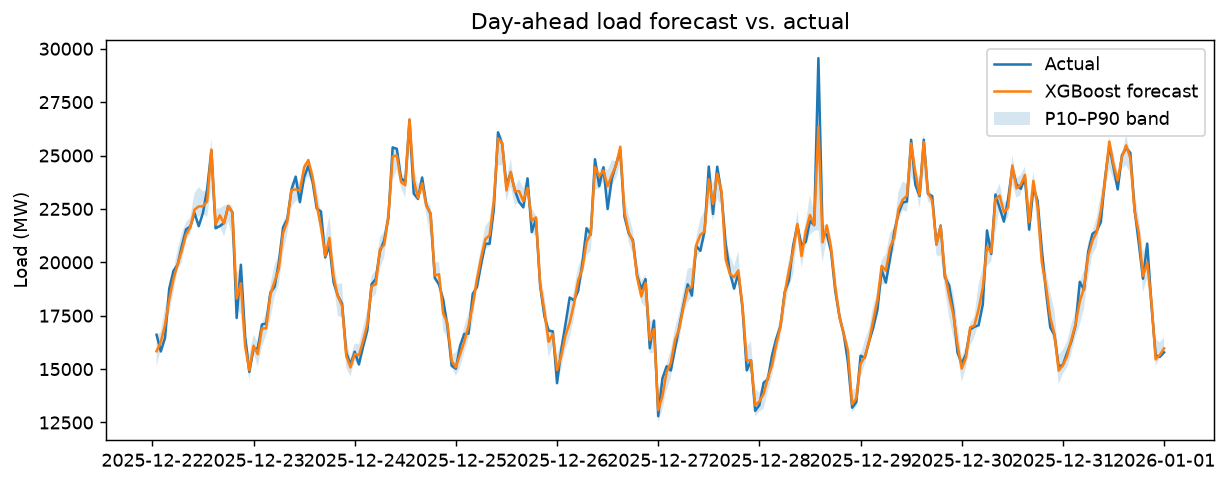
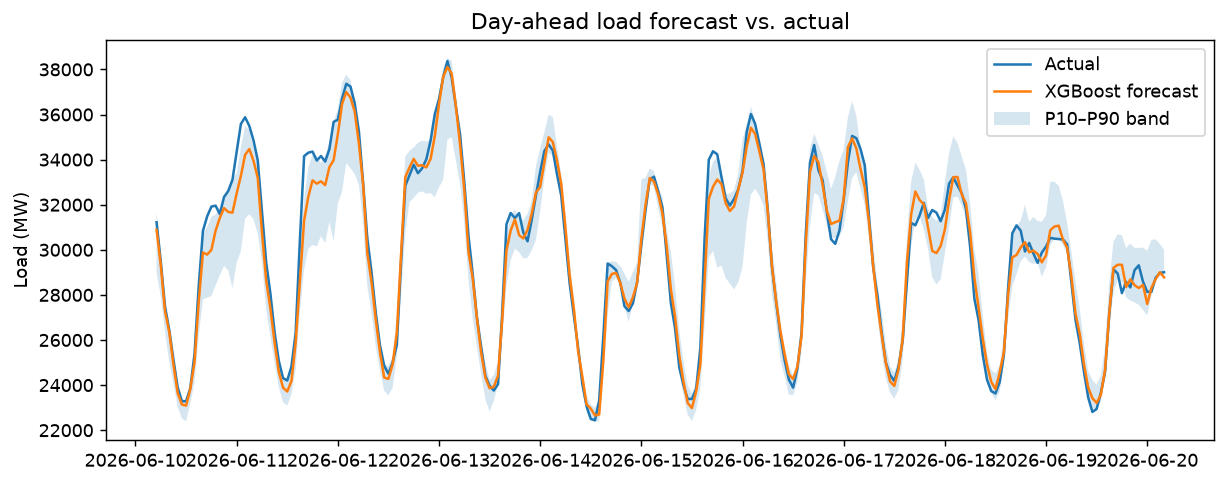
feat: run on real CAISO data + paginate EIA fetch
- Paginate EIA API past the 5,000-row cap to pull ~2 years of hourly demand
- Real CISO results (19,808 hrs): XGBoost 3.23% MAPE vs 6.22% baseline (~45% better),
  P10-P90 coverage 81%, 344 anomalies; updated README + figures

diff --git a/src/data.py b/src/data.py
@@ -22,24 +22,36 @@ def _temp_response(temp: np.ndarray) -> np.ndarray:
 
 
 def _fetch_eia() -> pd.DataFrame:
+    """Fetch hourly demand, paginating past the EIA 5,000-row-per-request cap."""
     import requests
 
-    params = {
-        "api_key": config.EIA_API_KEY,
-        "frequency": "hourly",
-        "data[]": "value",
-        "facets[respondent][]": config.EIA_RESPONDENT,
-        "facets[type][]": "D",
-        "sort[0][column]": "period",
-        "sort[0][direction]": "desc",
-        "length": config.HISTORY_DAYS * 24,
-    }
-    resp = requests.get(config.EIA_BASE_URL, params=params, timeout=60)
-    resp.raise_for_status()
-    rows = resp.json()["response"]["data"]
-    if not rows:
+    page_size = 5000
+    target_rows = config.HISTORY_DAYS * 24
+    collected: list[dict] = []
+    offset = 0
+    while len(collected) < target_rows:
+        params = {
+            "api_key": config.EIA_API_KEY,
+            "frequency": "hourly",
+            "data[]": "value",
+            "facets[respondent][]": config.EIA_RESPONDENT,
+            "facets[type][]": "D",
+            "sort[0][column]": "period",
+            "sort[0][direction]": "desc",
+            "offset": offset,
+            "length": page_size,
+        }
+        resp = requests.get(config.EIA_BASE_URL, params=params, timeout=60)
+        resp.raise_for_status()
+        rows = resp.json()["response"]["data"]
+        if not rows:
+            break
+        collected.extend(rows)
+        offset += page_size
+
+    if not collected:
         raise ValueError("EIA returned no rows; check respondent code / API key.")
-    df = pd.DataFrame(rows).rename(columns={"period": "timestamp", "value": config.TARGET})
+    df = pd.DataFrame(collected).rename(columns={"period": "timestamp", "value": config.TARGET})
     df["timestamp"] = pd.to_datetime(df["timestamp"])
     df[config.TARGET] = pd.to_numeric(df[config.TARGET], errors="coerce")
     return df[["timestamp", config.TARGET]].dropna().sort_values("timestamp")

diff --git a/README.md b/README.md
@@ -11,17 +11,17 @@ grid-operations data-science team does on weather-driven demand time series.
 
 ## Results
 
-Two years of hourly data, 6-fold rolling-origin backtest (synthetic series; the
-pipeline is identical on real EIA/CAISO data):
+**Real CAISO (CISO) data** — ~2 years of hourly demand (19,808 hours) from the
+EIA API joined to Open-Meteo temperature, 6-fold rolling-origin backtest:
 
 | Model | MAPE | Notes |
 |-------|------|-------|
-| Seasonal-naive (same hour, prior week) | **6.12%** | baseline |
-| Ridge regression | 3.71% | linear ML baseline |
-| **XGBoost (weather-aware)** | **2.07%** | **62% lower error than baseline** |
+| Seasonal-naive (same hour, prior week) | **6.22%** | baseline |
+| Ridge regression | 4.01% | linear ML baseline |
+| **XGBoost (weather-aware)** | **3.23%** (MAE 824 MW) | **~45% lower error than baseline** |
 
-P10–P90 prediction band coverage: **80.4%** (well calibrated). 22 demand
-anomalies flagged.
+P10–P90 prediction band coverage: **81%** (well calibrated). 344 demand
+anomalies flagged over the period.
 
 ![Forecast vs actual](reports/figures/forecast_vs_actual.png)
 ![Backtest MAPE by model](reports/figures/backtest_mape.png)